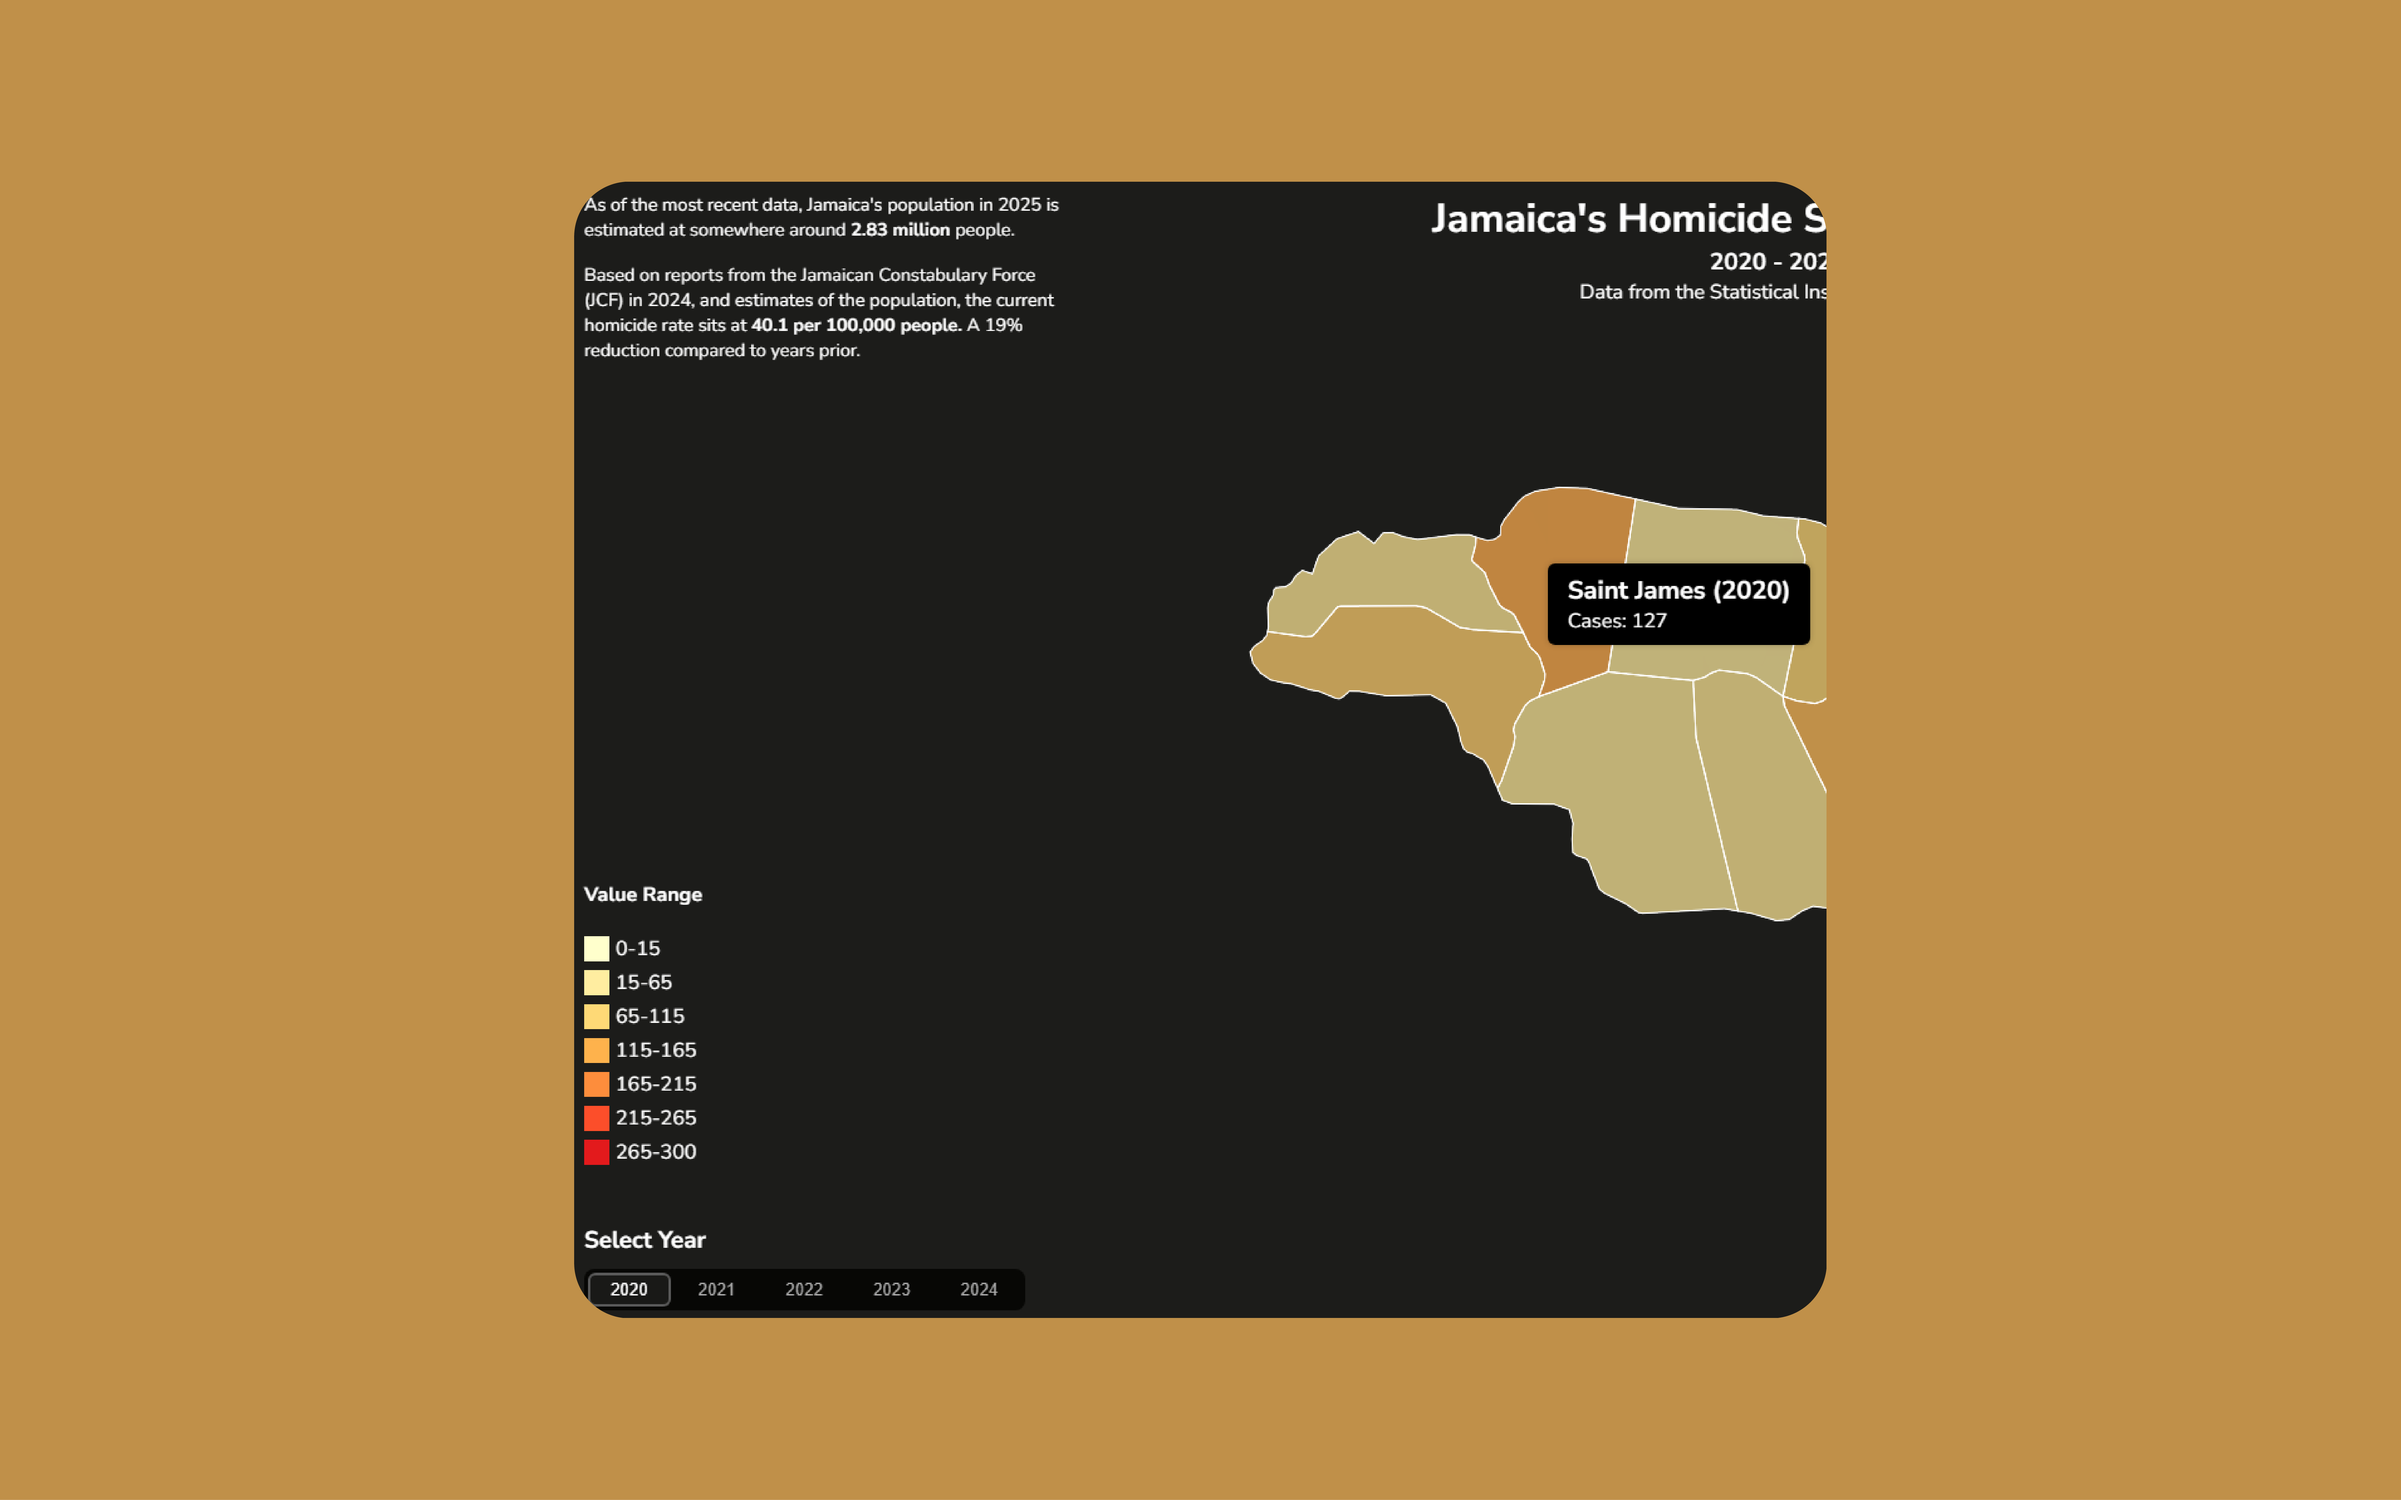
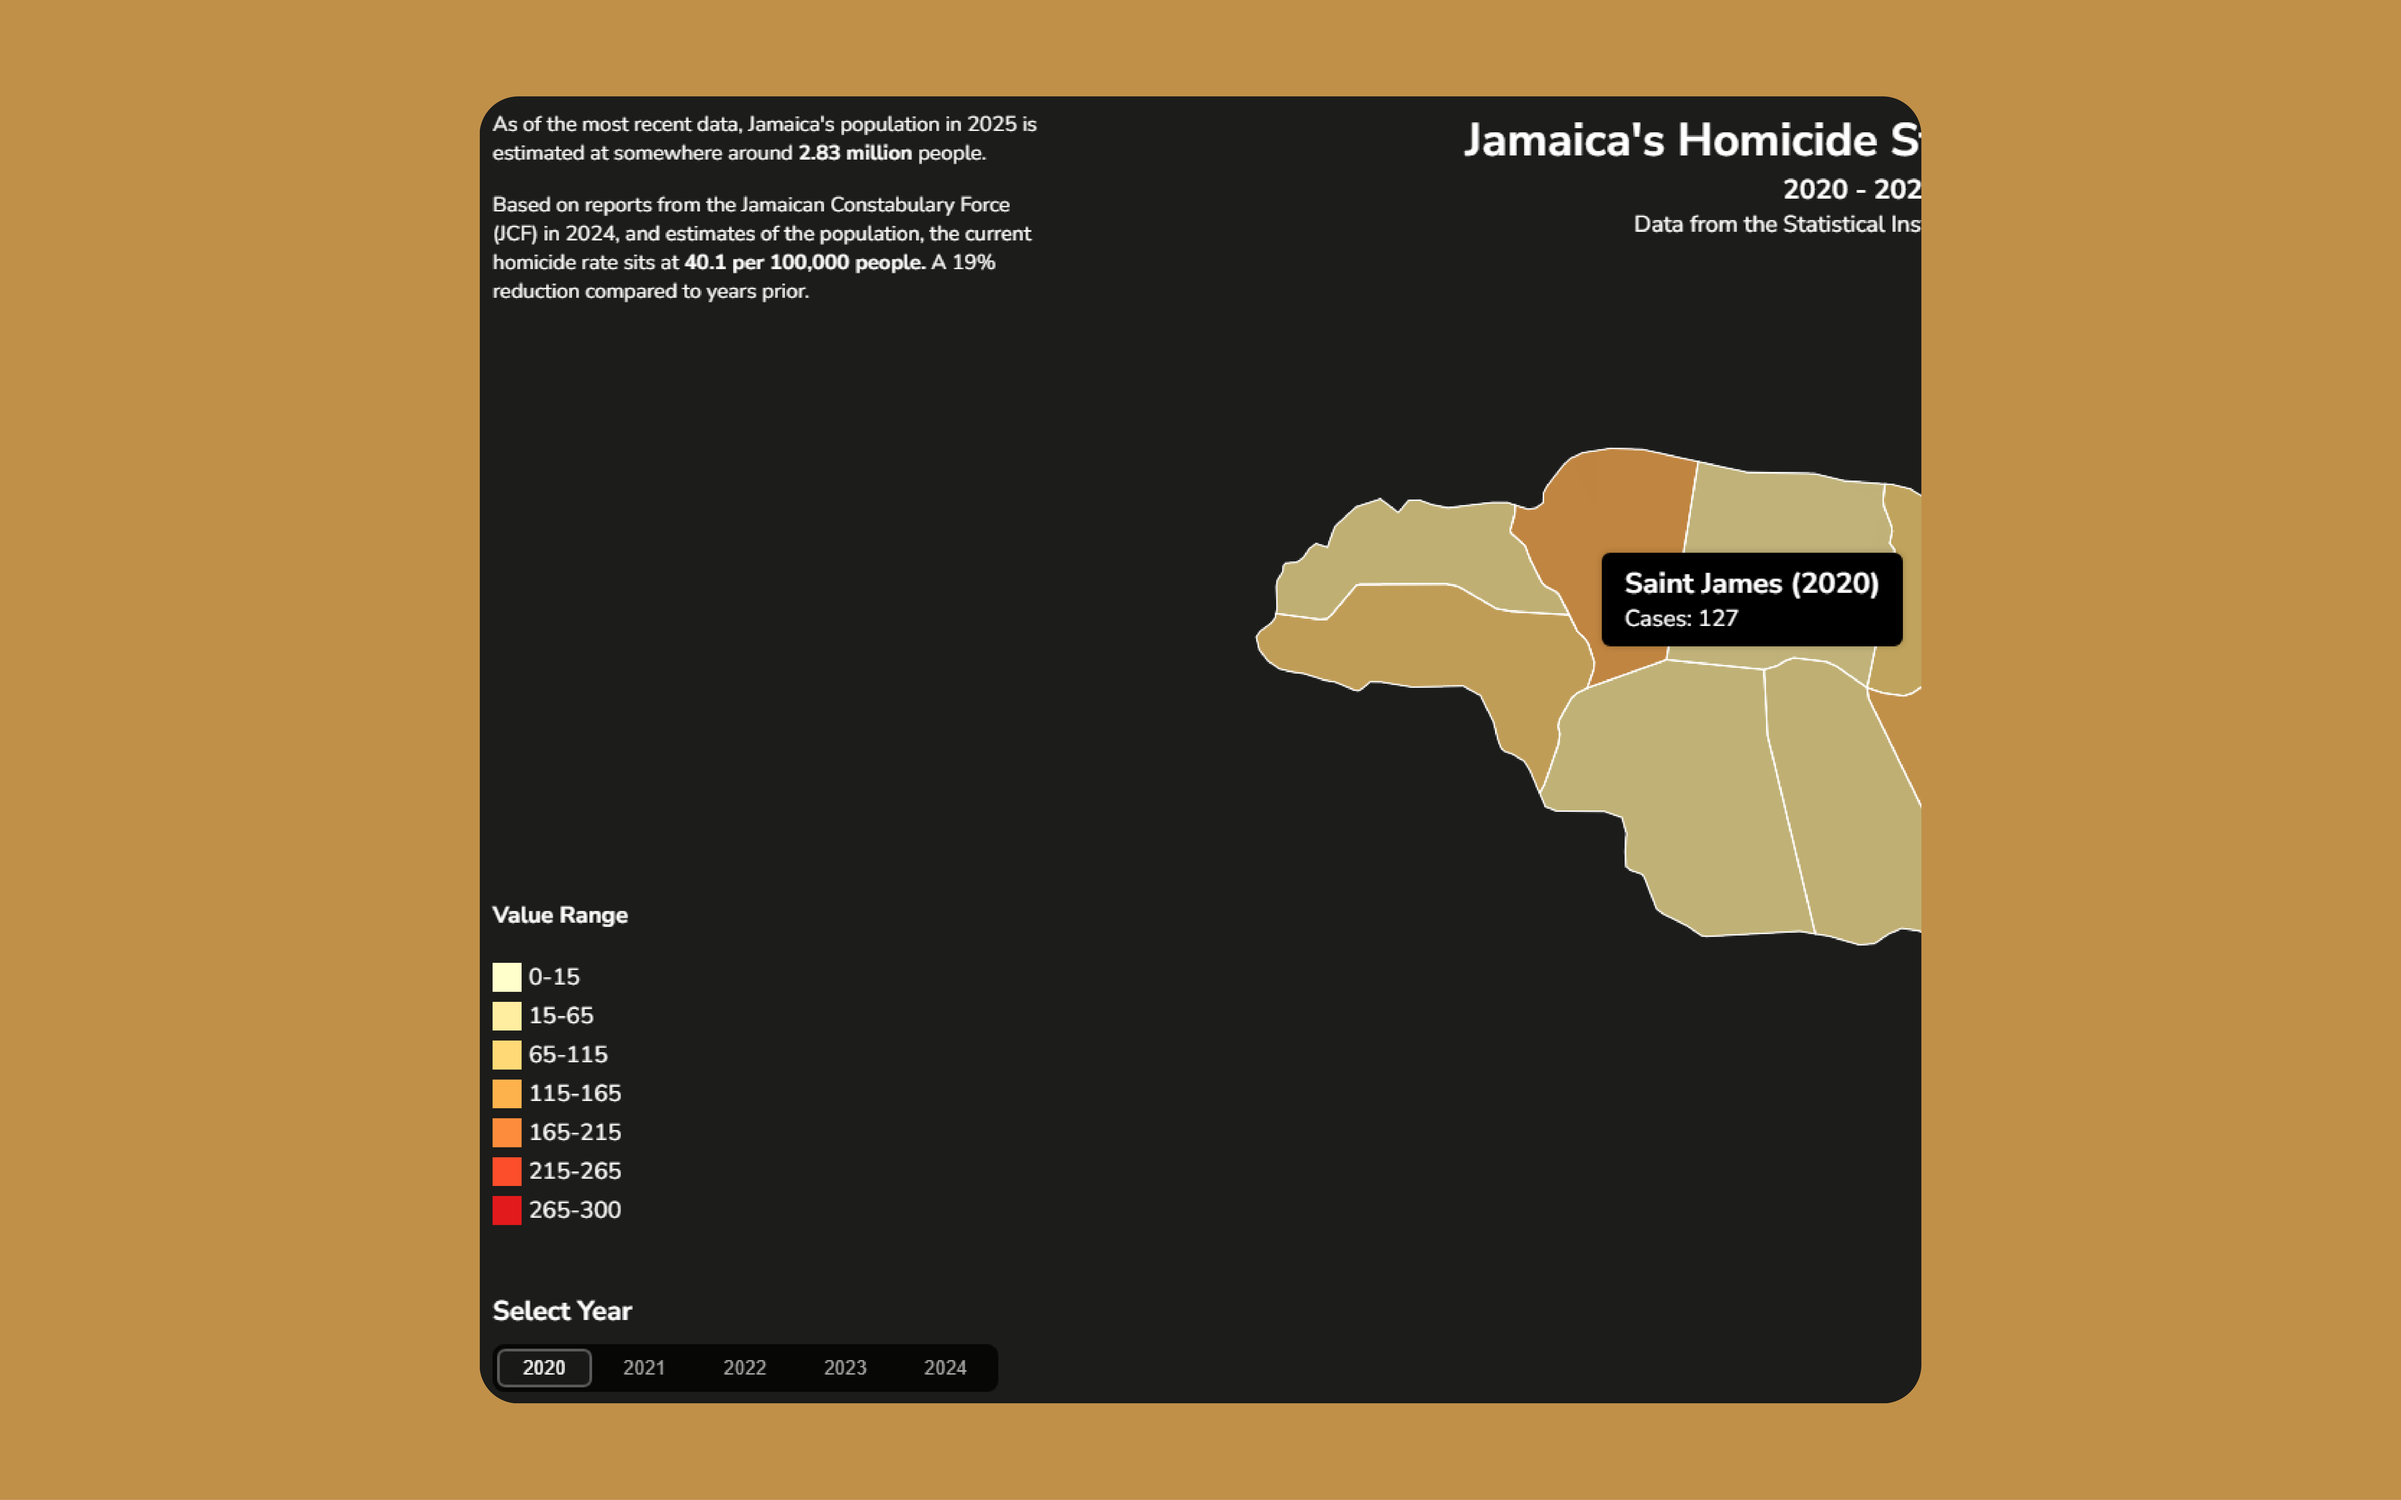
update

Changed region(s): [[0.1874, 0.0622, 0.8123, 0.9327]]

diff --git a/html/web_portfolio.html b/html/web_portfolio.html
@@ -178,23 +178,26 @@
                     <div class="modal-desc">
                         <h2>CodePrinter</h2>
                         <div class="tidbits">
-                            <p>html</p>
-                            <p>css</p>
-                            <p>javascript</p>
-                            <p>GSAP</p>
-                            <p>lenis</p>
+                            <p>react</p>
+                            <p>css</p> 
                         </div>
                         <div class="modal-details">
                             <p>
-                                This very website that you're viewing right now. My portfolio website that I use to house my projects in web development and in video
-                                editing. The website was written with plain HTML and CSS for structure and styling with some javascript to facilitate interactivity
-                                and the construction of my own video player to use on the site when viewing my video projects, and that is listed as its own project 
-                                on this page. I also used the GSAP javascript animation library to create neat little additions like page transitions and scroll based
-                                animations.
+                                This application offers a seamless, real-time coding experience entirely in the browser. Built with React 
+                                and powered by CodeMirror, it features separate editor panes for HTML, CSS, and JavaScript. As users type, 
+                                the code is instantly compiled and rendered in a live preview pane, mimicking a CodePen-like workflow. 
+                                Includes: Real-Time Preview with instant feedback while writing HTML, CSS, and JS , PDF export in one-click 
+                                you may export all typed code into a formatted PDF, making it easy to save or share code snippets privately. Ideal for quick prototyping or safeguarding personal snippets without relying on cloud storage or external platforms.
+                            </p>
+                            <p>
+                                This project combines front-end state management, live rendering via <code>iframe</code>, and integration of 
+                                CodeMirror for syntax highlighting and editor customization. Implementing PDF generation required 
+                                dynamically bundling and formatting user input while maintaining layout integrity.
                             </p>
                         </div>
                         <div class="modal-nav">
-                            <a href="https://github.com/JeremyWhervin/jeremywhervin.github.io"><p>Source code &lt;/&gt;</p></a>
+                            <a target="_blank" href="https://github.com/JeremyWhervin/code-printer"><p>Source code &lt;/&gt;</p></a>
+                            <a target="_blank" href="#"><p>View live site</p></a>
                         </div>                 
                     </div>
                 </div>
@@ -216,24 +219,31 @@
                     <div class="modal-desc">
                         <h2>Supabase Locker</h2>
                         <div class="tidbits">
-                            <p>html</p>
+                            <p>React</p>
                             <p>css</p>
-                            <p>javascript</p>
+                            <p>SQL</p>
+                            <p>supabase</p>
                         </div>
                         <div class="modal-details">
                             <p>
-                                This project began as an assignment for a digital marketing class for my undergraduate degree. We were tasked with 
-                                redesigning the landing page for a course of our choice offered by the university. I chose to do the landing page 
-                                for the Software Engineering programme. I built the landing page with plain HTML, CSS and Javascript, and mainly 
-                                focused on changing the information architecture to make valuable information that the university makes difficult 
-                                to find more accessible. I used css and javascript animations to provide a more engaging experience for the students, 
-                                to stand out from the typical pages provided by the university and allow them to peek at the possibilities that 
-                                the degree provides.
+                                This project is a full-stack cloud storage solution that allows users to securely log in, manage their 
+                                own storage space, and upload files all in a personalized environment. Includes features like: authentication 
+                                of user accounts with secure login via Supabase Auth, user folder creation. Create personal folders 
+                                limited to each authenticated user, user file uploads within folders for organisation, sorting by file 
+                                type based on the allowed file formats.
+                            </p>
+                            <p>
+                                This application required integrating Supabase's authentication, database, and storage APIs while 
+                                managing state and user sessions on the frontend. It involved building user-specific access control, 
+                                setting up database policies to enforce security, and designing a responsive UI for file interactions.
+                            </p>
+                            <p>This is built with the free version of Supabase. So only 50 total MB of data is allowed. IF you decide to 
+                                upload something, please make it as small as possible. :)
                             </p>
                         </div>
                         <div class="modal-nav">
-                            <a href="#"><p>Source code &lt;/&gt;</p></a>
-                            <a href="#"><p>View live site</p></a>
+                            <a target="_blank" href="https://github.com/JeremyWhervin/i-h8-google-drive"><p>Source code &lt;/&gt;</p></a>
+                            <a target="_blank" href="#"><p>View live site</p></a>
                         </div>                 
                     </div>
                 </div>
@@ -336,23 +346,26 @@
                             <p>html</p>
                             <p>css</p>
                             <p>javascript</p>
+                            <p>json</p>
                         </div>
                         <div class="modal-details">
                             <p>
-                                This project was the final, end-of-semester assignment for the collaboration between my classes “Web Management” 
-                                and “Usability and the Online User Experience”. We were tasked with locating a real client with a web presence 
-                                and improving that  presence via their website and/or social media, as well as the user experience for their customers. 
-                                For my client I went with the governmental body National Land Agency and primarily focused on their website. I 
-                                conducted research and collected data with surveys, interviews with the client and users, conducted user experiments, 
-                                and reviewed their analytics, all with the intention to locate the pain points that the users are experiencing. 
-                                Recognizing that the main issue that users were experiencing was finding information and accessing their services, 
-                                I went ahead with my redesign for NLA's website as well as some of their services like document tracking and title searching.
+                                This interactive web map visualizes homicide statistics across Jamaica, broken down by parish and year 
+                                from 2020 to 2024. Using MapLibre GL JS for smooth, open-source mapping, the site renders a detailed map 
+                                of the island where users can explore crime trends through simple, intuitive interactions. Includes: 
+                                interactive hover tooltips to hover over each parish to instantly view yearly homicide data, year-by-year 
+                                breakdown, accurate, local data based on official figures provided by STATIN (Statistical Institute of 
+                                Jamaica).
+                            </p>
+                            <p>
+                                The project required sourcing and formatting official crime data, converting geographic shapefiles into 
+                                a usable GeoJSON format, and styling map layers to display information clearly. Building with MapLibre 
+                                involved customizing tooltips, hover states, and responsive map behavior. 
                             </p>
                         </div>
                         <div class="modal-nav">
-                            <a href="#"><p>Source code &lt;/&gt;</p></a>
-                            <a href="#"><p>View live site</p></a>
-                            <a href="#"><p>Research document</p></a>
+                            <a target="_blank" href="https://github.com/JeremyWhervin/crime-map"><p>Source code &lt;/&gt;</p></a>
+                            <a target="_blank" href="#"><p>View live site</p></a>
                         </div>                 
                     </div>
                 </div>

diff --git a/css/web-style.css b/css/web-style.css
@@ -459,6 +459,9 @@ header p {
 }
 .modal-details {
     max-width: 65ch;
+    p {
+        text-wrap: pretty;
+    }
 }
 .tidbits {
     display: flex;
@@ -575,6 +578,7 @@ header p {
     background-repeat: no-repeat;
     background-position: 50%;
 }
+
 
 /* THIS IS THE END OF THE CSS FOR THE STYLING OF THE ABOUT ME SECTION */
 
